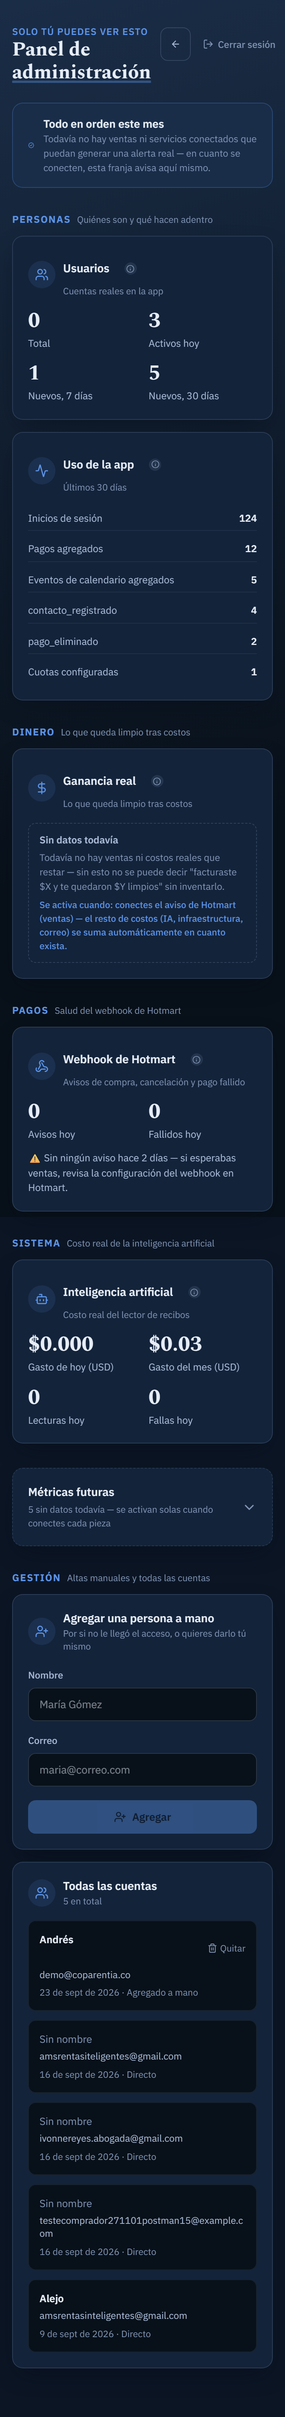
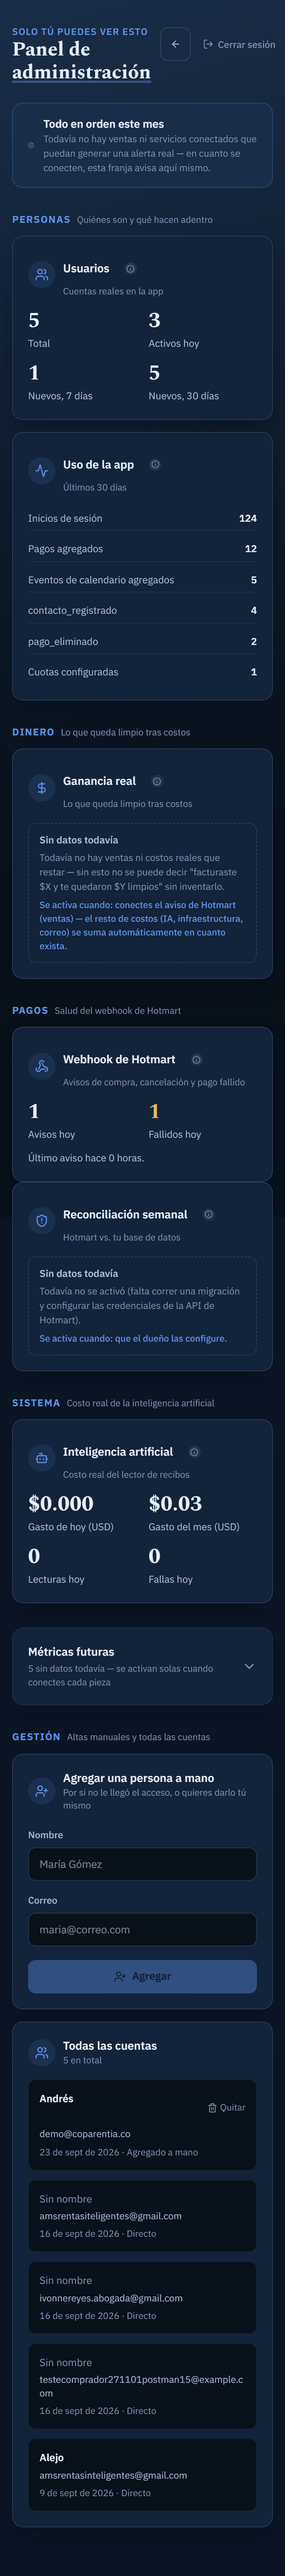
feat(pagos): reconciliacion semanal entre Hotmart y la base de datos
Gate 2 de integridad de lanzamiento: el webhook es la unica fuente de
verdad de suscripciones, y si alguna vez se pierde un aviso, el estado
interno queda desincronizado sin que nadie se entere.

Nuevo cron semanal compara la lista real de suscriptores de Hotmart
(via su API de subscriptions, investigada en vivo con el navegador
antes de escribir codigo -- no se inventaron endpoints de memoria)
contra `suscripciones`, usando la misma logica de acceso que ya usa el
webhook. Solo DETECTA y REGISTRA diferencias -- no repara el acceso de
nadie automaticamente, eso lo revisa el dueño en el panel.

Requiere 3 credenciales nuevas de la API de Hotmart (distintas del
hottok del webhook); sin ellas el cron se salta solo, sin romper nada.

diff --git a/lib/hotmart-api.ts b/lib/hotmart-api.ts
@@ -1,0 +1,85 @@
+// CLIENTE DE LA API REST DE HOTMART (2026-09-25) — distinto del webhook (lib/hotmart-verify.ts):
+// el webhook es Hotmart avisándote a TI; esto es tu app PREGUNTÁNDOLE a Hotmart. Se usa solo para
+// la reconciliación semanal (app/api/cron/reconciliacion-hotmart/route.ts) — nada en el resto de
+// la app depende de esto, así que si Hotmart cambia algo aquí, solo ese job se ve afectado.
+//
+// Documentación verificada en vivo (developers.hotmart.com, 2026-09-25) — no es de memoria:
+// - Token: POST https://api-sec-vlc.hotmart.com/security/oauth/token
+//   ?grant_type=client_credentials&client_id=...&client_secret=...
+//   header Authorization: Basic <token "Basic" que Hotmart genera junto a client_id/secret>
+// - Suscripciones: GET https://developers.hotmart.com/payments/api/v1/subscriptions?product_id=...
+//   header Authorization: Bearer <access_token>, pagina con `page_token`/`next_page_token`.
+
+interface RespuestaToken {
+  access_token: string;
+  expires_in: number;
+}
+
+export interface SuscripcionHotmart {
+  subscriber_code: string;
+  status: 'ACTIVE' | 'INACTIVE' | 'DELAYED' | 'CANCELLED_BY_CUSTOMER' | 'CANCELLED_BY_SELLER' | 'CANCELLED_BY_ADMIN' | 'STARTED' | 'OVERDUE';
+  date_next_charge?: number;
+  product: { id: number; name: string };
+  subscriber: { name: string; email: string };
+}
+
+interface RespuestaSuscripciones {
+  items: SuscripcionHotmart[];
+  page_info: { next_page_token?: string; total_results: number };
+}
+
+// Credenciales completas: si falta cualquiera de las 3, la reconciliación se salta (no falla el
+// resto de la app) — mismo criterio que el resto de integraciones externas opcionales.
+export function credencialesHotmartCompletas(): boolean {
+  return Boolean(process.env.HOTMART_CLIENT_ID && process.env.HOTMART_CLIENT_SECRET && process.env.HOTMART_BASIC_TOKEN);
+}
+
+async function obtenerAccessToken(): Promise<string> {
+  const clientId = process.env.HOTMART_CLIENT_ID!;
+  const clientSecret = process.env.HOTMART_CLIENT_SECRET!;
+  const basico = process.env.HOTMART_BASIC_TOKEN!;
+  const url = `https://api-sec-vlc.hotmart.com/security/oauth/token?grant_type=client_credentials&client_id=${encodeURIComponent(clientId)}&client_secret=${encodeURIComponent(clientSecret)}`;
+
+  const resp = await fetch(url, {
+    method: 'POST',
+    headers: { 'Content-Type': 'application/json', Authorization: `Basic ${basico}` },
+  });
+  if (!resp.ok) throw new Error(`Hotmart OAuth respondió ${resp.status}`);
+  const data = (await resp.json()) as RespuestaToken;
+  return data.access_token;
+}
+
+// Trae TODAS las suscripciones de un producto, sin importar el estado — la reconciliación decide
+// después qué significa cada estado. Un usuario nuevo casi no tiene suscriptores, así que traer
+// "todo" en vez de filtrar por estado es simple y barato; si el negocio crece mucho, aquí es
+// donde se agregaría el filtro por `status` para no traer de más.
+export async function obtenerTodasLasSuscripciones(productId: string): Promise<SuscripcionHotmart[]> {
+  const token = await obtenerAccessToken();
+  const todas: SuscripcionHotmart[] = [];
+  let pageToken: string | undefined;
+
+  do {
+    const url = new URL('https://developers.hotmart.com/payments/api/v1/subscriptions');
+    url.searchParams.set('product_id', productId);
+    url.searchParams.set('max_results', '100');
+    if (pageToken) url.searchParams.set('page_token', pageToken);
+
+    const resp = await fetch(url.toString(), {
+      headers: { 'Content-Type': 'application/json', Authorization: `Bearer ${token}` },
+    });
+    if (!resp.ok) throw new Error(`Hotmart /subscriptions respondió ${resp.status}`);
+    const data = (await resp.json()) as RespuestaSuscripciones;
+    todas.push(...data.items);
+    pageToken = data.page_info?.next_page_token;
+  } while (pageToken);
+
+  return todas;
+}
+
+// Juicio propio (documentado, revisar si algún día se ve un caso real que no encaje): estos son
+// los estados en los que Hotmart todavía considera que la persona debería tener acceso al
+// producto — el resto significa que ya no debería tenerlo.
+const ESTADOS_CON_ACCESO: SuscripcionHotmart['status'][] = ['ACTIVE', 'STARTED', 'DELAYED', 'OVERDUE'];
+export function deberiaTenerAcceso(estado: SuscripcionHotmart['status']): boolean {
+  return ESTADOS_CON_ACCESO.includes(estado);
+}

diff --git a/app/api/cron/reconciliacion-hotmart/route.ts b/app/api/cron/reconciliacion-hotmart/route.ts
@@ -1,0 +1,86 @@
+// RECONCILIACIÓN SEMANAL HOTMART ↔ BASE DE DATOS (2026-09-25, hallazgo de auditoría externa) —
+// lo llama Vercel una vez por semana (vercel.json). El webhook es la única fuente de verdad de
+// `suscripciones`, y si alguna vez deja de recibir un aviso (una caída, un cambio de config en
+// Hotmart, lo que sea), el estado interno queda desincronizado sin que nadie se entere. Este job
+// compara la lista REAL de suscriptores de Hotmart contra `suscripciones` y deja un registro de
+// cada diferencia — NO corrige el acceso de nadie solo (ver supabase/reconciliacion-hotmart.sql):
+// reparar automáticamente es más riesgoso que dejarlo unos días para que el dueño lo revise.
+//
+// Seguridad: misma puerta que el resto de los crons — `Authorization: Bearer $CRON_SECRET` en
+// tiempo constante. Sin CRON_SECRET, o sin las 3 credenciales de Hotmart, responde 503 y no hace
+// nada — nunca falla a medias ni deja un estado inconsistente.
+
+import { NextResponse } from 'next/server';
+import { crearClienteSupabaseAdmin } from '@/lib/supabase/admin';
+import { obtenerTodasLasSuscripciones, deberiaTenerAcceso, credencialesHotmartCompletas } from '@/lib/hotmart-api';
+import { tieneAccesoCompleto, type Status } from '@/lib/membership-fsm';
+import { enviarCorreoDriftDetectado } from '@/lib/email';
+import { comparacionSegura } from '@/lib/hotmart-verify';
+
+export const dynamic = 'force-dynamic';
+export const maxDuration = 60;
+
+export async function GET(request: Request): Promise<NextResponse> {
+  const secreto = process.env.CRON_SECRET;
+  if (!secreto) {
+    return NextResponse.json({ error: 'CRON_SECRET no configurado' }, { status: 503 });
+  }
+  if (!comparacionSegura(request.headers.get('authorization') ?? '', `Bearer ${secreto}`)) {
+    return NextResponse.json({ error: 'no autorizado' }, { status: 401 });
+  }
+  const productId = process.env.HOTMART_PRODUCT_ID;
+  if (!credencialesHotmartCompletas() || !productId) {
+    return NextResponse.json({ error: 'faltan credenciales de la API de Hotmart o HOTMART_PRODUCT_ID' }, { status: 503 });
+  }
+
+  const admin = crearClienteSupabaseAdmin();
+  const ahora = new Date();
+
+  let suscripcionesHotmart;
+  try {
+    suscripcionesHotmart = await obtenerTodasLasSuscripciones(productId);
+  } catch (e) {
+    console.error('reconciliación hotmart: fallo al leer la API', e instanceof Error ? e.message : e);
+    return NextResponse.json({ error: 'fallo al leer la API de Hotmart' }, { status: 502 });
+  }
+
+  const hallazgos: { email: string; estado_hotmart: string; deberia_tener_acceso: boolean; estado_interno: string | null; tiene_acceso_interno: boolean }[] = [];
+
+  for (const s of suscripcionesHotmart) {
+    const email = s.subscriber.email;
+    if (!email) continue;
+
+    const { data: interno } = await admin
+      .from('suscripciones')
+      .select('status, access_until, grace_ends_at')
+      .eq('email', email)
+      .maybeSingle();
+
+    const deberiaHotmart = deberiaTenerAcceso(s.status);
+    const tieneInterno = interno
+      ? tieneAccesoCompleto(
+          interno.status as Status,
+          ahora,
+          interno.access_until ? new Date(interno.access_until) : null,
+          interno.grace_ends_at ? new Date(interno.grace_ends_at) : null
+        )
+      : false;
+
+    if (deberiaHotmart !== tieneInterno) {
+      hallazgos.push({
+        email,
+        estado_hotmart: s.status,
+        deberia_tener_acceso: deberiaHotmart,
+        estado_interno: interno?.status ?? null,
+        tiene_acceso_interno: tieneInterno,
+      });
+    }
+  }
+
+  if (hallazgos.length > 0) {
+    await admin.from('hotmart_drift_log').insert(hallazgos.map((h) => ({ ...h, ejecutado_en: ahora.toISOString() })));
+    await enviarCorreoDriftDetectado(hallazgos.length);
+  }
+
+  return NextResponse.json({ ok: true, revisados: suscripcionesHotmart.length, diferencias: hallazgos.length });
+}

diff --git a/app/admin/page.tsx b/app/admin/page.tsx
@@ -22,6 +22,7 @@ import {
   obtenerListaUsuarios,
   obtenerResumenIA,
   obtenerResumenWebhookHotmart,
+  obtenerDiferenciasHotmartSinResolver,
 } from '@/lib/admin-datos';
 import { ContenedorAdmin, TarjetaSeccion, EncabezadoGrupo, DatoHeroe, DatoPendiente, SinDatos, NotaActivacion } from '@/components/admin/ui';
 import { MetricasFuturas } from '@/components/admin/MetricasFuturas';
@@ -45,12 +46,13 @@ const ETIQUETA_EVENTO: Record<string, string> = {
 
 export default async function PanelAdmin() {
   const supabase = await crearClienteSupabaseServidor();
-  const [usuarios, uso, listaUsuarios, ia, webhookHotmart] = await Promise.all([
+  const [usuarios, uso, listaUsuarios, ia, webhookHotmart, diferenciasHotmart] = await Promise.all([
     obtenerResumenUsuarios(supabase),
     obtenerUsoUltimos30Dias(supabase),
     obtenerListaUsuarios(supabase),
     obtenerResumenIA(supabase),
     obtenerResumenWebhookHotmart(supabase),
+    obtenerDiferenciasHotmartSinResolver(supabase),
   ]);
 
   return (
@@ -200,6 +202,36 @@ export default async function PanelAdmin() {
           </>
         ) : (
           <SinDatos motivo="No se pudo leer el registro del webhook." activaCon="que vuelva a estar disponible." />
+        )}
+      </TarjetaSeccion>
+
+      {/* ── RECONCILIACIÓN — compara Hotmart contra la base de datos una vez por semana (Gate 2
+          de 61-INTEGRIDAD-DE-LANZAMIENTO.md). `null` = todavía no se corrió esa migración
+          (supabase/reconciliacion-hotmart.sql); `[]` = sí se corrió y no hay ninguna diferencia,
+          que es el caso sano. ─────────────────────────────────────────────────────────────── */}
+      <TarjetaSeccion
+        indice={3}
+        titulo="Reconciliación semanal"
+        subtitulo="Hotmart vs. tu base de datos"
+        icon={<ShieldAlert size={18} color="var(--accent)" aria-hidden="true" />}
+        tooltip="Cada lunes se compara la lista real de tus suscriptores en Hotmart contra lo que guarda la app. Si un aviso de pago se perdió alguna vez, aquí aparece — sin esto, nadie lo notaría."
+      >
+        {diferenciasHotmart === null ? (
+          <SinDatos motivo="Todavía no se activó (falta correr una migración y configurar las credenciales de la API de Hotmart)." activaCon="que el dueño las configure." />
+        ) : diferenciasHotmart.length === 0 ? (
+          <p className="text-[13px] text-[var(--text-secondary)]">✓ Sin diferencias pendientes — Hotmart y tu base de datos coinciden.</p>
+        ) : (
+          <div className="flex flex-col gap-2">
+            {diferenciasHotmart.map((d) => (
+              <div key={d.id} className="rounded-[var(--radius-card)] border border-[color-mix(in_oklab,var(--status-warning)_30%,transparent)] p-3 text-[13px]">
+                <p className="font-bold text-[var(--text-primary)]">{d.email}</p>
+                <p className="mt-0.5 text-[var(--text-secondary)]">
+                  Hotmart dice <strong>{d.estadoHotmart}</strong> ({d.deberiaTenerAcceso ? 'debería tener acceso' : 'no debería tener acceso'}) ·
+                  {' '}tu base dice <strong>{d.estadoInterno ?? 'sin registro'}</strong> ({d.tieneAccesoInterno ? 'tiene acceso' : 'sin acceso'})
+                </p>
+              </div>
+            ))}
+          </div>
         )}
       </TarjetaSeccion>
 

diff --git a/lib/email.ts b/lib/email.ts
@@ -251,6 +251,39 @@ export async function enviarCorreoAvisoPreCobro(email: string, nombre: string | 
   }
 }
 
+/**
+ * Alerta al DUEÑO (no al cliente) cuando la reconciliación semanal (app/api/cron/
+ * reconciliacion-hotmart/route.ts) encuentra diferencias entre lo que dice Hotmart y lo que
+ * guarda `suscripciones` — sea porque un webhook se perdió, o por cualquier otra razón. Se manda
+ * a `soporte@coparentia.co` (el mismo correo que ya monitorea) — nunca al cliente afectado.
+ */
+export async function enviarCorreoDriftDetectado(cantidad: number): Promise<void> {
+  const resend = clienteResend();
+  if (!resend) return;
+
+  try {
+    await resend.emails.send({
+      from: REMITENTE,
+      to: RESPONDER_A,
+      subject: `Coparentia: ${cantidad} diferencia${cantidad === 1 ? '' : 's'} entre Hotmart y tu base de datos`,
+      html: `
+        <h1 style="font-family:sans-serif;color:#111827;">La reconciliación semanal encontró diferencias</h1>
+        <p style="font-family:sans-serif;color:#374151;font-size:15px;line-height:1.5;">
+          Se compararon tus suscriptores reales en Hotmart contra lo que guarda la app, y se
+          encontraron <strong>${cantidad}</strong> ${cantidad === 1 ? 'caso' : 'casos'} donde no
+          coinciden — puede ser un aviso de pago que nunca llegó, entre otras causas. Revísalos en
+          el panel de administración, sección "Pagos", antes de que un cliente reclame.
+        </p>
+        <p style="margin:24px 0;">
+          <a href="${URL_APP}/admin" style="${ESTILO_BOTON}">Ver el panel de administración →</a>
+        </p>
+      `,
+    });
+  } catch (e) {
+    console.error('fallo al enviar alerta de reconciliación', e instanceof Error ? e.message : e);
+  }
+}
+
 /** Se manda cuando un cobro de renovación FALLA (estado `past_due`) — hay días de gracia, no se corta el acceso todavía. */
 export async function enviarCorreoPagoFallido(email: string, graceEndsAt?: Date | null): Promise<void> {
   const resend = clienteResend();

diff --git a/lib/admin-datos.ts b/lib/admin-datos.ts
@@ -143,6 +143,39 @@ export async function obtenerResumenWebhookHotmart(supabase: SupabaseClient): Pr
   };
 }
 
+export interface DiferenciaHotmart {
+  id: number;
+  email: string;
+  estadoHotmart: string;
+  deberiaTenerAcceso: boolean;
+  estadoInterno: string | null;
+  tieneAccesoInterno: boolean;
+  ejecutadoEn: string;
+}
+
+// La reconciliación semanal (app/api/cron/reconciliacion-hotmart/route.ts) deja un registro por
+// cada diferencia encontrada entre Hotmart y `suscripciones` — esto trae las que el dueño no ha
+// marcado como revisadas todavía. `null` (no `[]`) distingue "la tabla no existe todavía porque
+// no se ha corrido la migración" de "no hay ninguna diferencia" (caso sano, sí es `[]`).
+export async function obtenerDiferenciasHotmartSinResolver(supabase: SupabaseClient): Promise<DiferenciaHotmart[] | null> {
+  const { data, error } = await supabase
+    .from('hotmart_drift_log')
+    .select('id, email, estado_hotmart, deberia_tener_acceso, estado_interno, tiene_acceso_interno, ejecutado_en')
+    .eq('resuelto', false)
+    .order('ejecutado_en', { ascending: false })
+    .limit(20);
+  if (error) return null;
+  return (data ?? []).map((d) => ({
+    id: d.id,
+    email: d.email,
+    estadoHotmart: d.estado_hotmart,
+    deberiaTenerAcceso: d.deberia_tener_acceso,
+    estadoInterno: d.estado_interno,
+    tieneAccesoInterno: d.tiene_acceso_interno,
+    ejecutadoEn: d.ejecutado_en,
+  }));
+}
+
 export async function obtenerListaUsuarios(supabase: SupabaseClient): Promise<PerfilAdmin[]> {
   const { data } = await supabase
     .from('profiles')
